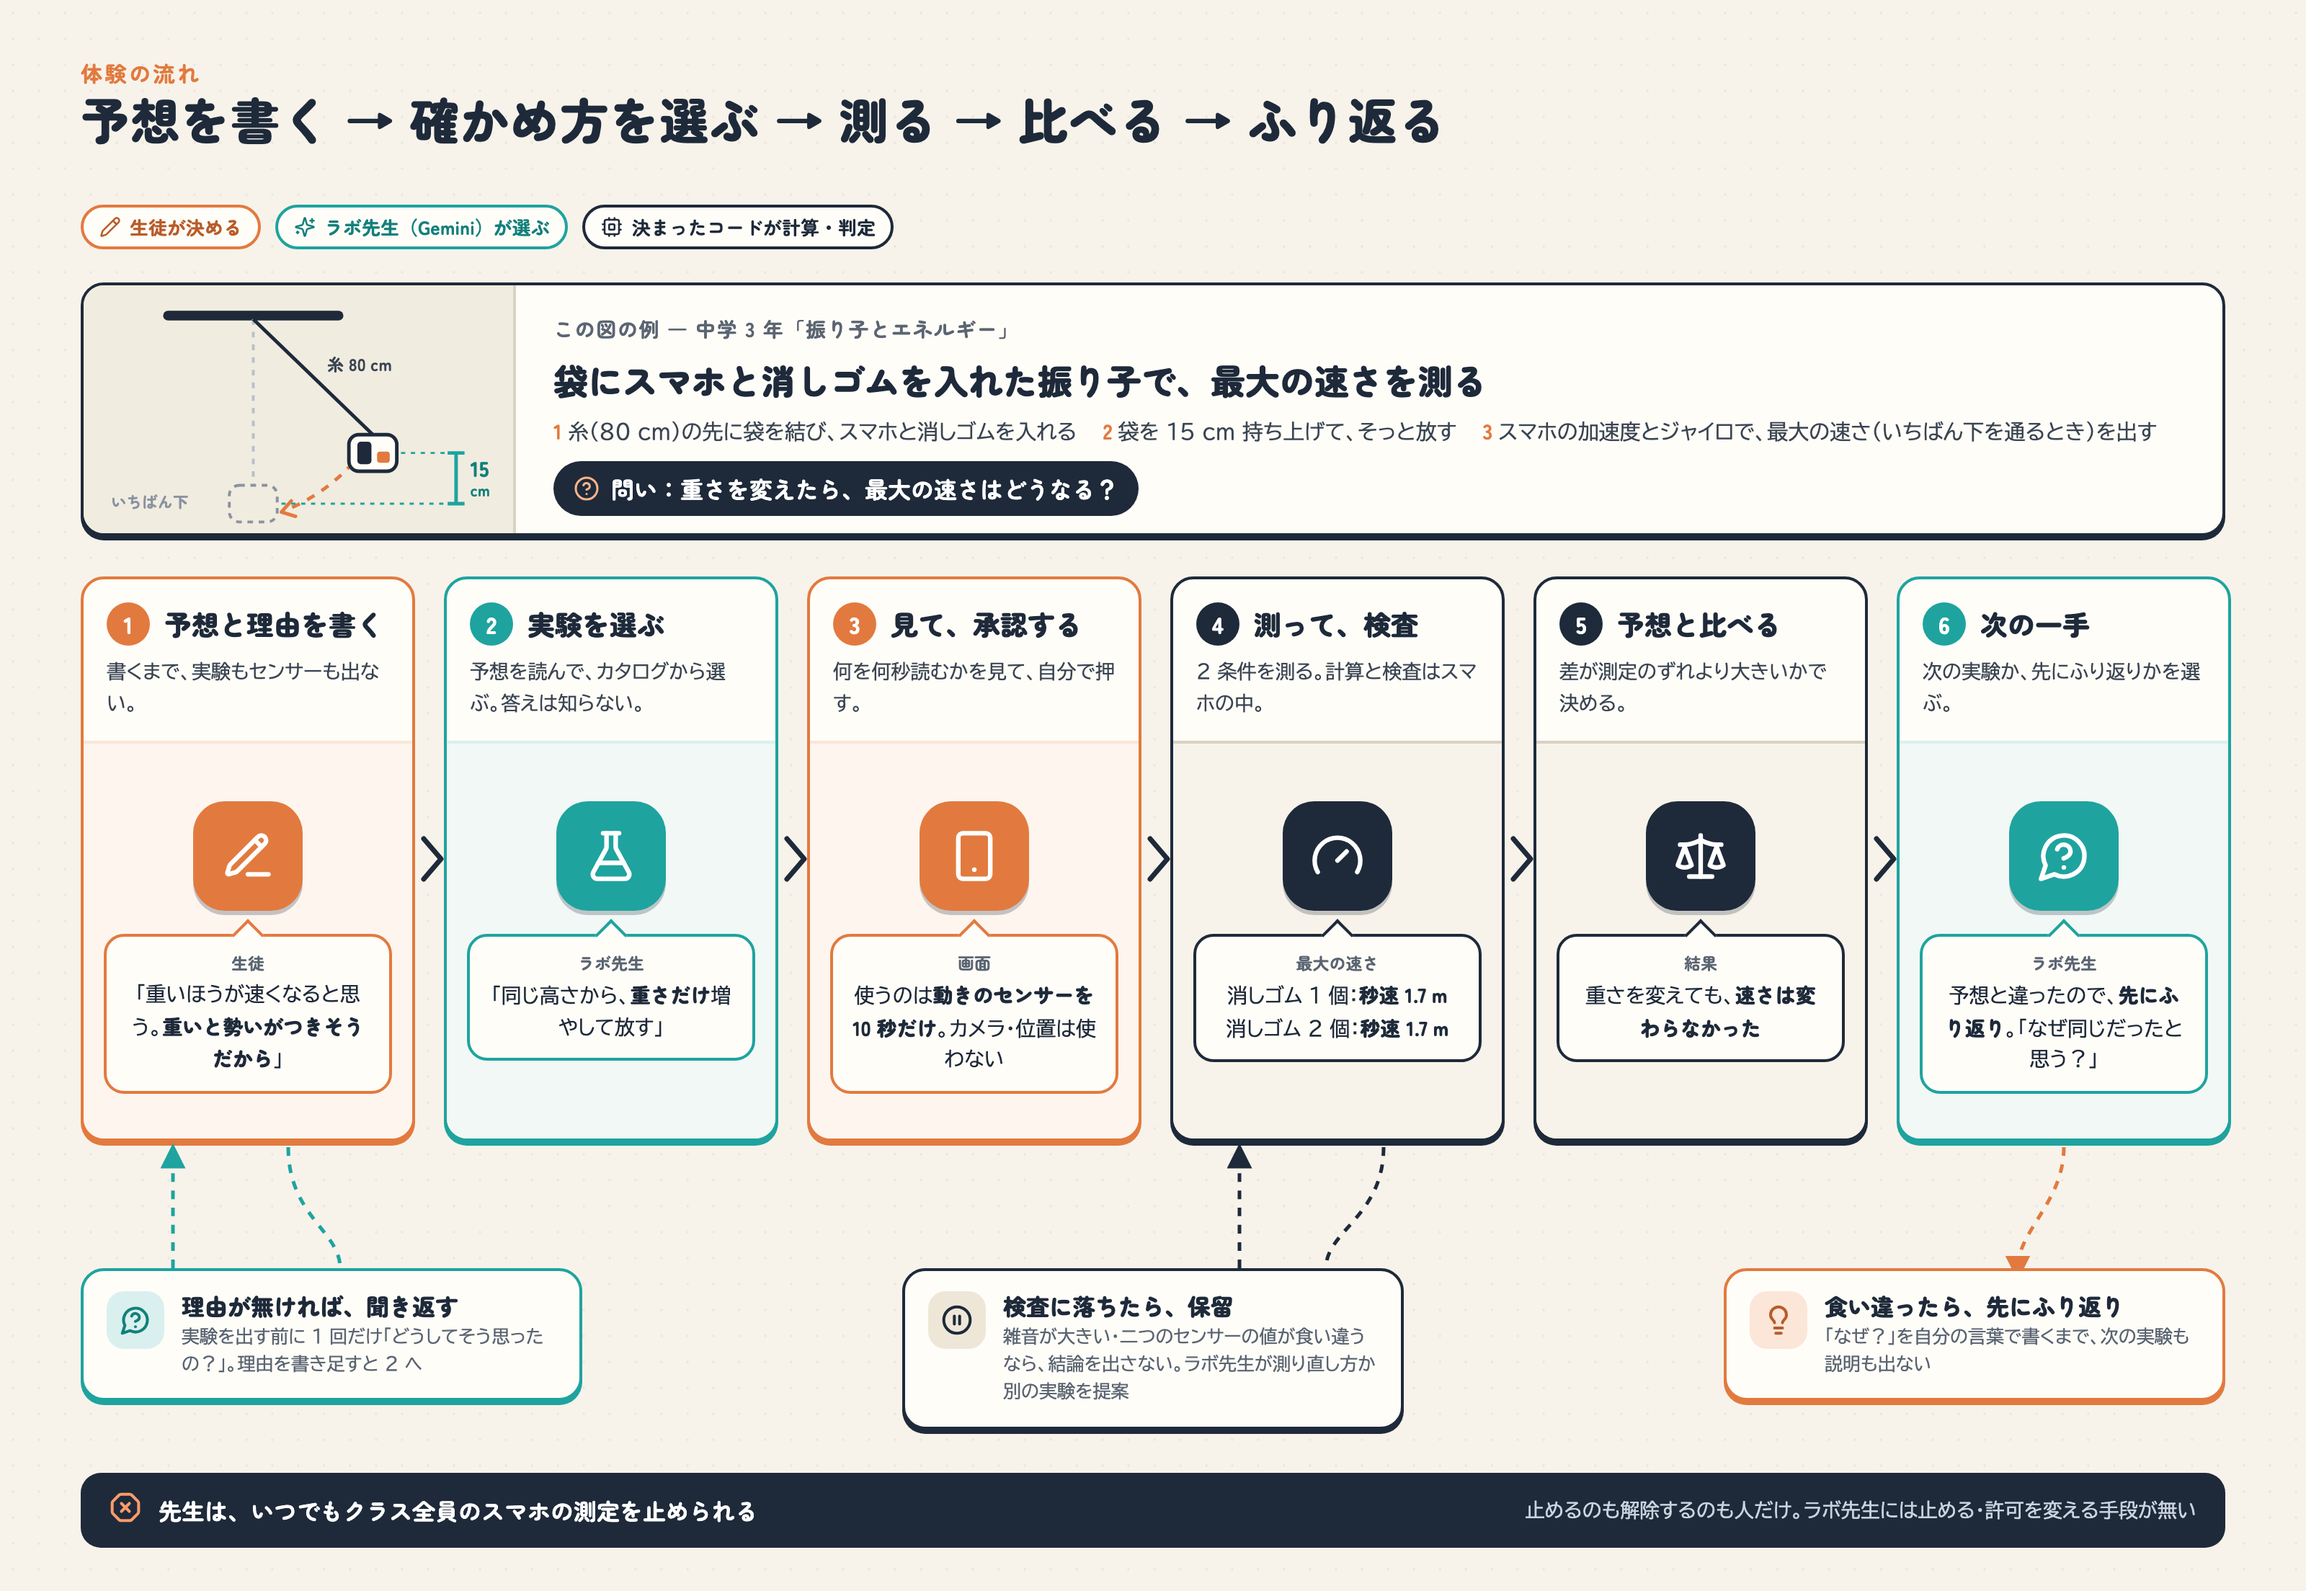
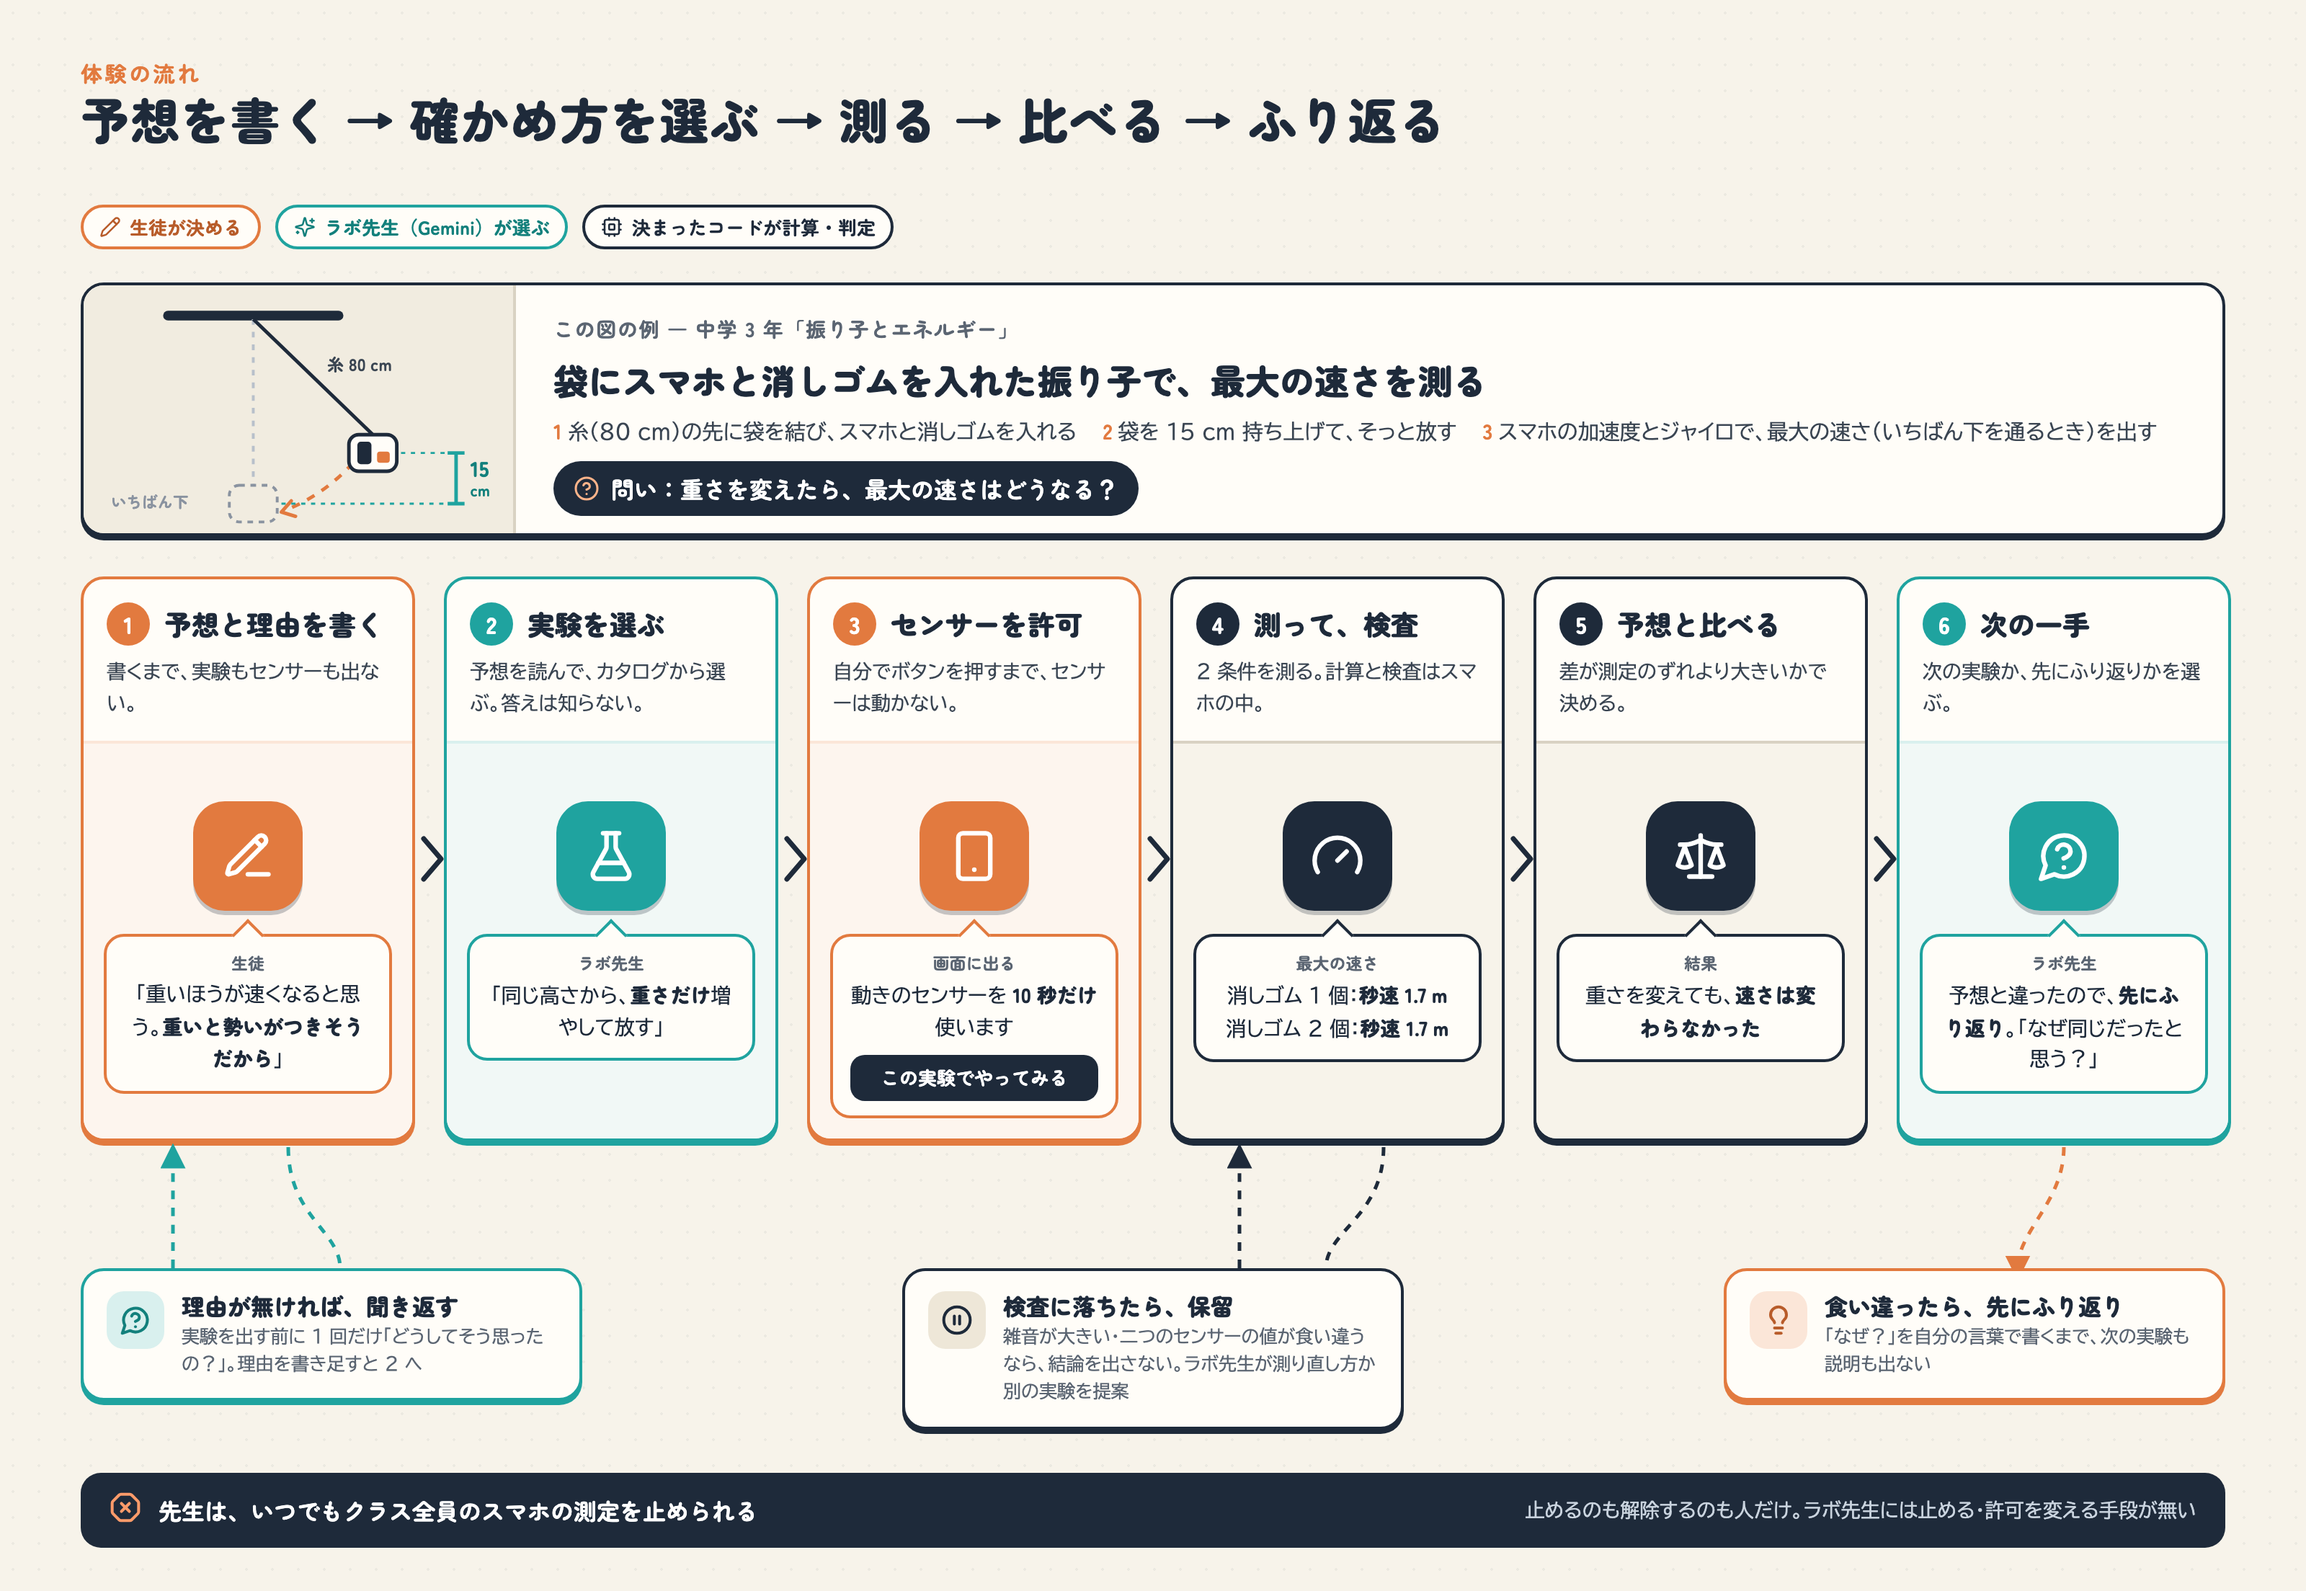
docs(zenn): 体験の流れの 3 段目を「センサーを許可」にし、実際のボタンを描く

Changed region(s): [[0.3438, 0.5938, 0.5, 0.7188], [0.375, 0.375, 0.4688, 0.4688]]

diff --git a/docs/zenn-images/diagrams/flow.html b/docs/zenn-images/diagrams/flow.html
@@ -21,6 +21,7 @@
   .step.student .bubble, .step.student .bubble::before { border-color: var(--orange); }
   .bubble b { font-family: var(--font-head); font-weight: 900; }
   .bubble .who { display: block; font-size: 11.5px; color: var(--muted); margin-bottom: 2px; font-family: var(--font-head); font-weight: 700; }
+  .bubble .btn { display: block; margin-top: 8px; padding: 6px 8px; border-radius: 10px; background: var(--ink); color: #fff; font-family: var(--font-head); font-weight: 700; font-size: 13px; }
   .nums { display: flex; gap: 6px; justify-content: center; align-items: baseline; font-family: var(--font-head); font-weight: 900; font-size: 22px; }
   .nums small { font-size: 12px; color: var(--muted); font-weight: 700; }
   .chev { position: absolute; top: 576px; width: 20px; height: 40px; color: var(--ink); }
@@ -99,9 +100,9 @@
     <div class="art"><div class="big"><i data-lucide="flask-conical"></i></div><div class="bubble"><span class="who">ラボ先生</span>「同じ高さから、<b>重さだけ</b>増やして放す」</div></div>
   </div>
   <div class="card step student" style="left:560px">
-    <div class="head"><span class="num" style="background:var(--orange)">3</span><span class="title">見て、承認する</span></div>
-    <div class="desc">何を何秒読むかを見て、自分で押す。</div>
-    <div class="art"><div class="big"><i data-lucide="smartphone"></i></div><div class="bubble"><span class="who">画面</span>使うのは<b>動きのセンサーを 10 秒だけ</b>。カメラ・位置は使わない</div></div>
+    <div class="head"><span class="num" style="background:var(--orange)">3</span><span class="title">センサーを許可</span></div>
+    <div class="desc">自分でボタンを押すまで、センサーは動かない。</div>
+    <div class="art"><div class="big"><i data-lucide="smartphone"></i></div><div class="bubble"><span class="who">画面に出る</span>動きのセンサーを<b> 10 秒だけ</b>使います<span class="btn">この実験でやってみる</span></div></div>
   </div>
   <div class="card step" style="left:812px">
     <div class="head"><span class="num">4</span><span class="title">測って、検査</span></div>
